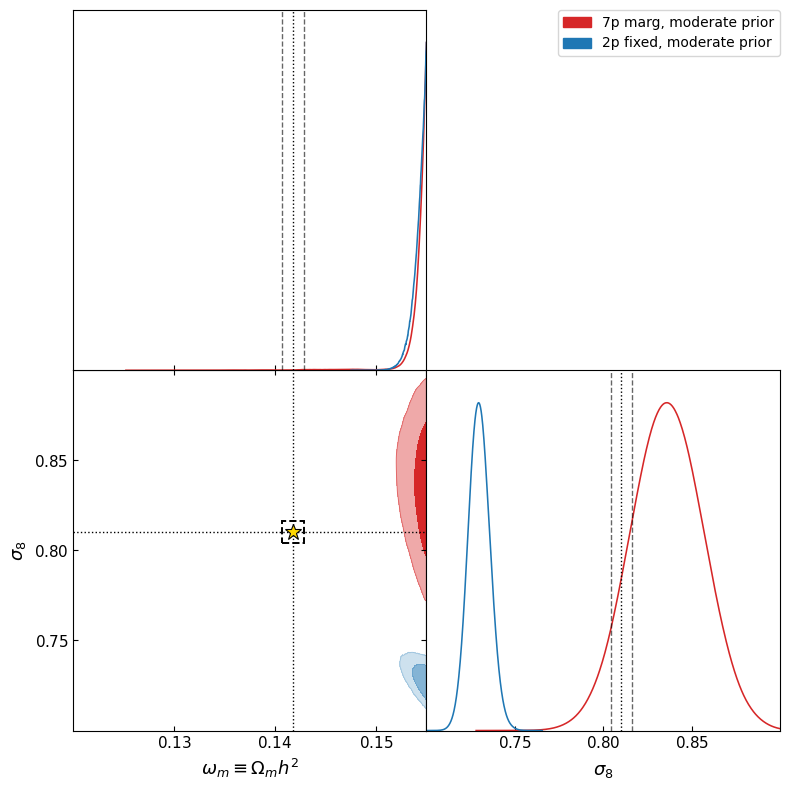
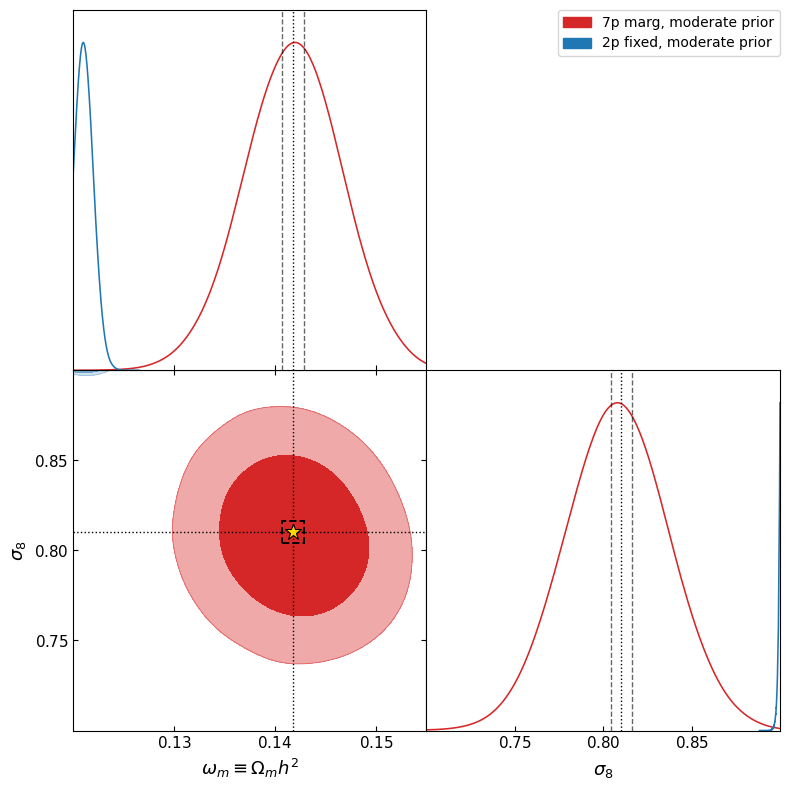
jl6

diff --git a/Inference/diagnostics/README.md b/Inference/diagnostics/README.md
@@ -12,22 +12,25 @@ chain that isn't on disk yet, so they're safe to run while MCMCs are going.
 | Script | Question | Chains | Outputs |
 |---|---|---|---|
 | `check_v1_v2.py` | Does v2 (CosmoHydro) reproduce v1 (Flamingo) on the shared 5 subgrid params? | v1 GSMF, v2 5p, v2 7p | `corner_overlay.png`, `summary_stats_compare.png`, `posterior_medians.txt` |
-| `check_subgrid_marg_vs_fixed.py` | How much do the **subgrid** constraints change if cosmology is fixed vs. marginalized? | `GSMF_7p` (cosmo free) vs `GSMF_5p_fid_cosmo` (cosmo fixed) | `subgrid_marg_vs_fixed.png`, `..._medians.txt` |
-| `check_cosmo_marg_vs_fixed.py` | How much do the **cosmology** constraints change if hydro is fixed vs. marginalized? | `GSMF_CGD_7p` (hydro free) vs `GSMF_CGD_2cosmo` (hydro fixed) | `cosmo_marg_vs_fixed.png`, `..._medians.txt` |
+| `check_subgrid_marg_vs_fixed.py` | How much do the **subgrid** constraints change if cosmology is fixed vs. marginalized? | `<suite>_7p` (cosmo free) vs `<suite>_5p_fid_cosmo` (cosmo fixed) | `subgrid_marg_vs_fixed{,_GSMF_CGD}.png` + `_medians.txt` |
+| `check_cosmo_marg_vs_fixed.py` | How much do the **cosmology** constraints change if hydro is fixed vs. marginalized (moderate vs Planck prior)? | `<suite>_{7p,2cosmo}{,_pk}` | `cosmo_marg_vs_fixed{,_GSMF_CGD}.png` + `_medians.txt` |
+| `likelihood_sweep_cosmo.py` | Where does the likelihood/posterior peak in (Ωₘ, σ₈), and under which prior? | GSMF, CGD emulators + obs (no chains) | `likelihood_sweep_omega_m.png`, `_sigma_8.png`, `likelihood_sweep_2d.png` (3 rows: likelihood / ×moderate / ×Planck-zoom), `prior_comparison.png` |
 
-All MCMC chains use the shared project-default cosmology prior (moderate
-fiducial-centered Gaussian; see `../configs/_defaults.yaml`).
+Both marg-vs-fixed checks now run for **both** observable suites (`GSMF` and
+`GSMF+CGD`); the base filename is the GSMF version, the `_GSMF_CGD` suffix the
+GSMF+CGD version. The cosmo check overlays the moderate-prior and Planck-prior
+(`*_pk`) runs when present (each skipped until its chain exists).
 
-> Note: the cosmo check now uses the **GSMF+CGD** pair — the GSMF+CGD+fGas runs
-> were retired (CGD+fGas drove cosmology to the box edge; chains in
-> `old_results/retired_GSMF_CGD_fGas/`). It skips either chain until
-> `configs/GSMF_CGD_7p.yaml` and `configs/GSMF_CGD_2cosmo.yaml` are run.
+> Retired: the `GSMF_CGD_fGas_*` runs (CGD+fGas railed cosmology to the box edge)
+> and the hard-cut `*_trunc` priors (the ±1σ wall amputated the posterior) — both
+> under `old_results/`. See `2p_cosmology_issue.md`.
 
 ## Run
 
 ```bash
 cd Inference
-python diagnostics/check_subgrid_marg_vs_fixed.py
-python diagnostics/check_cosmo_marg_vs_fixed.py
+python diagnostics/check_subgrid_marg_vs_fixed.py   # both suites
+python diagnostics/check_cosmo_marg_vs_fixed.py     # both suites
+python diagnostics/likelihood_sweep_cosmo.py        # sweeps + prior comparison (slow: emulator evals)
 python diagnostics/check_v1_v2.py
 ```
